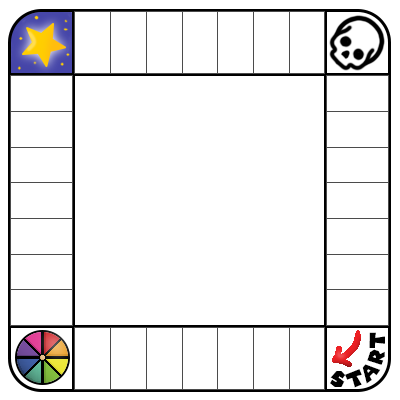
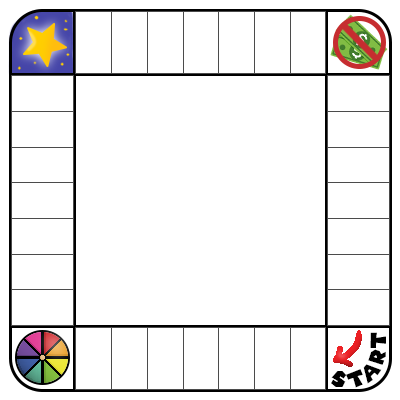
Shop updates

diff --git a/Game Niet Ganzenbord 1. Gathering.py b/Game Niet Ganzenbord 1. Gathering.py
@@ -37,37 +37,50 @@ def updateScreen():
 
 # Check special space with walking
 def specialCheckWalk(turn):
-    
+    updateScreen()
     if walkPos[turn] == 8: # check if at space 8
-        updateScreen()
+        extraX, extraY = baseExtra[turn]
+        player_x = 65 + extraX
+        player_y = 820 + extraY
+        screen.blit(characterImages[turn], (player_x, player_y))
+        pygame.display.flip()
+
+    elif walkPos[turn] == 16: # check if at space 16
         extraX, extraY = baseExtra[turn]
         player_x = 65 + extraX
         player_y = 30 + extraY
         screen.blit(characterImages[turn], (player_x, player_y))
         pygame.display.flip()
-    
-    elif walkPos[turn] == 16: # check at space 16
-        updateScreen()
-        extraX, extraY = baseExtra[turn]
-        player_x = 65 + extraX
-        player_y = 30 + extraY
-        screen.blit(characterImages[turn], (player_x, player_y))
-        pygame.display.flip()
-        starbuy = easygui.ynbox(f"Do you want to buy a star player {turn + 1}?", "You found a star!", ["Yes", "No"])
+        Shop = easygui.ynbox(f"Welcome to the shop! \nDo you want to buy anything {turn + 1}?", "Standard shop", ["Yes", "No"])
+        if Shop == True:
+            options = random.sample(shop1, 3)
+            option1, = options[0].keys()
+            option2, = options[1].keys()
+            option3, = options[2].keys()
+            bought = easygui.buttonbox(f"Welcome to the shop! \nWhat do you want to buy? {turn + 1}?", "Standard shop", [option1, option2, option3])
+            for item in shop1:
+                if bought in item:
+                    selected_item = item[bought]
+                    selected_item = list(selected_item)
+                    break
+            for i in range(len(selected_item)):
+                inv[turn][i] += selected_item[i]
 
     elif walkPos[turn] == 24: # check if at space 24
-        updateScreen()
         extraX, extraY = baseExtra[turn]
-        player_x = 65 + extraX
+        player_x = 855 + extraX
         player_y = 30 + extraY
         screen.blit(characterImages[turn], (player_x, player_y))
         pygame.display.flip()
+        if day == True:
+            easygui.msgbox(f"Congratulations! You won [AMOUNT] gold!", "YOU FOUND GOLD!")
+        else:
+            easygui.msgbox(f"Oh no you have been robbed, they took [AMOUNT] gold!", "YOU GOT ROBBED!")
     
     elif walkPos[turn] == 32: # check if at space 32
-        updateScreen()
         extraX, extraY = baseExtra[turn]
-        player_x = 65 + extraX
-        player_y = 30 + extraY
+        player_x = 855 + extraX
+        player_y = 820 + extraY
         screen.blit(characterImages[turn], (player_x, player_y))
         pygame.display.flip()
     pygame.event.clear()
@@ -145,11 +158,15 @@ characterImages = [character1, character2, character3, character4, character5, c
 # Character distribution
 baseExtra = [(0,5),(37,5),(0,42),(37,42),(0,79),(37,79),(0,116),(37,116)]
 
-# Items/inventory
-inv = [[],[],[],[],[],[],[],[]]
+# Items/inventory (First digit = Attack damage, second = Magic damage, third = armor and fourth = magic shield)
+inv = [[0,0,0,0],[0,0,0,0],[0,0,0,0],[0,0,0,0],[0,0,0,0],[0,0,0,0],[0,0,0,0],[0,0,0,0]]
 
 # Check movement
 walking = False
+
+# Shop items
+shop1 = [{"Basic sword": (2,0,0,0)}, {"Basic wand": (0,2,0,0)}, {"Basic armor": (0,0,2,0)}, {"Basic magic shield": (0,0,0,2)}]
+shop2 = [{"Epic sword": (5,0,0,0)}, {"Epic wand": (0,5,0,0)}, {"Epic armor": (0,0,5,0)}, {"Epic magic shield": (0,0,0,5)}]
 
 #----- Start menu -----#
 
@@ -186,67 +203,64 @@ if not done:
 
 while not done:
     
-    if rounds < 10:
+    # if rounds < 10: (is for later)
 
-        #--- Check activities (mouseclicks, button presses etc.) ---#
+    #--- Check activities (mouseclicks, button presses etc.) ---#
 
-        if day == True:
-            board = boardDay
-            timeColor = 255,255,255
-        else:
-            board = boardNight
-            timeColor = 0,0,0
-            
-        for event in pygame.event.get():
-            if event.type == pygame.QUIT:
-                done = True
-            elif event.type == pygame.KEYDOWN:
-                # Execute keypress
-                if event.key == pygame.K_SPACE:
-                    throw = random.randint(1,6)
-                    if throw > 0:
-                        walking = True
-                    position[turn] += throw
+    if day == True:
+        board = boardDay
+        timeColor = 255,255,255
+    else:
+        board = boardNight
+        timeColor = 0,0,0
+        
+    for event in pygame.event.get():
+        if event.type == pygame.QUIT:
+            done = True
+        elif event.type == pygame.KEYDOWN:
+            # Execute keypress
+            if event.key == pygame.K_SPACE:
+                throw = random.randint(1,6)
+                if throw > 0:
+                    walking = True
+                position[turn] += throw
 
-                    if position[turn] > 31:
-                        position[turn] -= 32               
+                if position[turn] > 31:
+                    position[turn] -= 32               
 
-                elif event.key == pygame.K_e:
-                    powerupturn = inv[turn]
-                    powerup = easygui.buttonbox(f"What powerup do you want to use player {turn + 1}?", "Powerups", powerupturn)
-                    pygame.event.clear()
-
-        #--- Draw/update graphics ---#
-
-        if walking != True:
-            updateScreen()
-        else:
-            for i in range(throw):
-                walkPos[turn] += 1
-                if walkPos[turn] > 31:
-                    walkPos[turn] -= 32  
-                specialCheckWalk(turn)
+            elif event.key == pygame.K_e:
+                powerupturn = inv[turn]
+                powerup = easygui.buttonbox(f"What powerup do you want to use player {turn + 1}?", "Powerups", powerupturn)
                 pygame.event.clear()
 
-                updateScreen()
-                pygame.display.flip()
-                time.sleep(0.2)
-            walking = False
-            specialCheckPos(turn)
-            pygame.event.clear()
-            
-            # Switch turns
-            if turn < (players - 1):
-                turn += 1
-            else:
-                turn = 0
-                rounds += 1
-                if day == True:
-                    day = False
-                    easygui.msgbox(f"Its getting dark outside...", "Whats happening?")
-                else:
-                    day = True
-                    easygui.msgbox(f"Whats that light?", "Whats happening?")
+    #--- Draw/update graphics ---#
+
+    if walking != True:
+        updateScreen()
+    else:
+        for i in range(throw):
+            walkPos[turn] += 1
+            if walkPos[turn] > 31:
+                walkPos[turn] -= 32  
+            specialCheckWalk(turn)
+            updateScreen()
+            pygame.display.flip()
+            time.sleep(0.2)
+        walking = False
+        specialCheckPos(turn)
+        
+        # Switch turns
+        if turn < (players - 1):
+            turn += 1
+        else:
+            turn = 0
+            rounds += 1
+            # if day == True:
+            #     day = False
+            #     easygui.msgbox(f"Its getting dark outside...", "Whats happening?")
+            # else:
+            #     day = True
+            #     easygui.msgbox(f"Whats that light?", "Whats happening?")
     
 
     # Draw text
@@ -261,8 +275,8 @@ while not done:
     # screen.blit(label, (X,Y))
 
     # Refresh screen
-    else:
-        "Fight"
+    # else:
+    #     "Fight"
 
     updateScreen()
     clock.tick(60)
